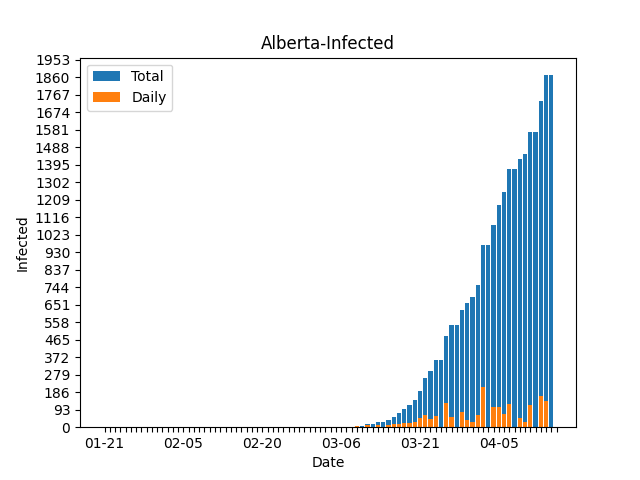
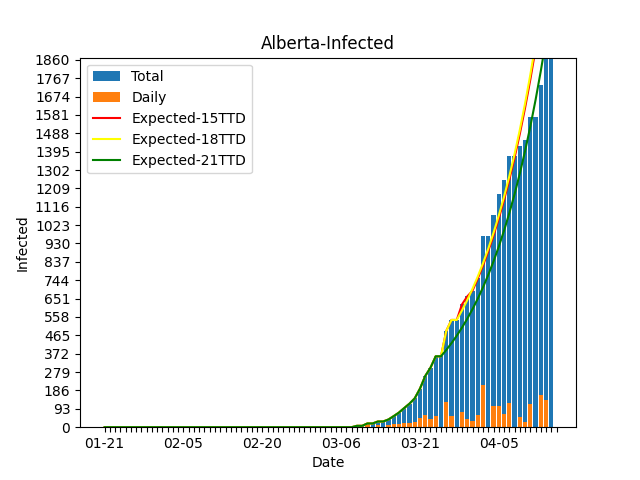
Added SUPER UNRELIABLE expected infections estimates

diff --git a/generatePlots.py b/generatePlots.py
@@ -126,6 +126,33 @@ for p,i in zip(provinces, range(len(provinces))):
 markdown = "" 
 for province,index in zip(provinces, range(len(provinces))):
     markdown += "# " +province + "\n"
+
+    #Here we calculate the average daily percent change in deaths over the last week 
+    total=0
+    totalList = []
+    for x in data[index][3][1:]:
+        total += x 
+        totalList.append(total) 
+    
+    def protDiv(x,y):
+        if y == 0:
+            return (x+1)/(y+1)
+        else:
+            return x/y
+
+    estimateLength = 5
+    estimatedDailyPercentChange = sum([protDiv(float(x),y) for x,y in zip(totalList[-estimateLength:],totalList[-estimateLength-1:-1])])/estimateLength
+    aveDailyDeaths = sum(data[index][3][-estimateLength:])/float(estimateLength)
+
+    #This number will be used to estimate the average daily percent change in infections 2 weeks ago 
+    #The estimate is for 2 weeks ago since the average time to death is around 2 weeks 
+    #This VERY ROUGH estimate can then be used to plot the expected infections along with the reported infections to better visualize how things are changing
+    #This should not be interpreted as a real projection. I am not a professional, I just wanted a rough comparison between the reported numbers today, and how things looked a couple weeks ago
+    #I'm using deaths to estimate infections because in theory the deaths should be less influenced by sampling biases, that is assuming the majority of deaths are by covid-19 are correctly attributed to covid-19
+
+    #median time to death taken from https://www.thelancet.com/journals/lancet/article/PIIS0140-6736(20)30566-3/fulltext
+    #median 18 with values from 15 to 22 
+
     for plot in range(1,4):
       
         stats = data[index]
@@ -149,6 +176,7 @@ for province,index in zip(provinces, range(len(provinces))):
         if stepSize == 0:
             stepSize = 1
         plt.yticks(range(0,int(max(totalList) + 0.1*max(totalList)+1), stepSize))
+        plt.ylim(0, max(totalList))
         plt.title(province + "-" + stats[plot][0])
         markdown += "## " + province + "-" + stats[plot][0] + "\n"
         xAx = stats[0][1:]
@@ -157,7 +185,22 @@ for province,index in zip(provinces, range(len(provinces))):
         
         p1 = plt.bar(xAx,totalList)
         p2 = plt.bar(xAx,yAx)
-        plt.legend((p1[0], p2[0]), ('Total', 'Daily'))
+
+        if plot == 1 and aveDailyDeaths >= 1:
+            #Since we have data on a range of time to deaths, I'm plotting a range of expected infections 
+            colors = ["red", "yellow", "green"]
+            lines = [] 
+            timeToDeath = 15
+            for i in range(3):
+                expectedInfections = [x for x in totalList] 
+                for x in range(-timeToDeath, 0, 1):
+                    expectedInfections[x] = expectedInfections[x-1]*estimatedDailyPercentChange 
+                lines.append(plt.plot(xAx, expectedInfections, color=colors[i]))
+                timeToDeath += 3
+            plt.legend((p1[0], p2[0], lines[0][0], lines[1][0], lines[2][0]), ('Total', 'Daily', 'Expected-15TTD', 'Expected-18TTD', 'Expected-21TTD', ))
+        else:
+            plt.legend((p1[0], p2[0]), ('Total', 'Daily'))
+
         plt.savefig("docs/"+province + "-" + stats[plot][0] + ".png")
         plt.close()
 
